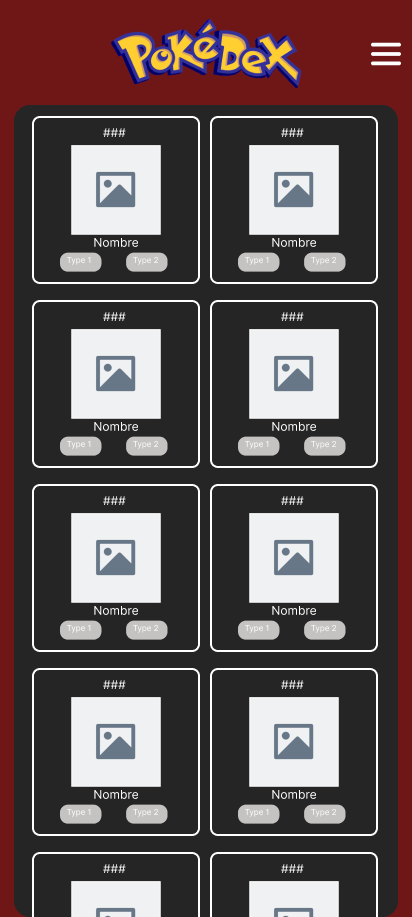
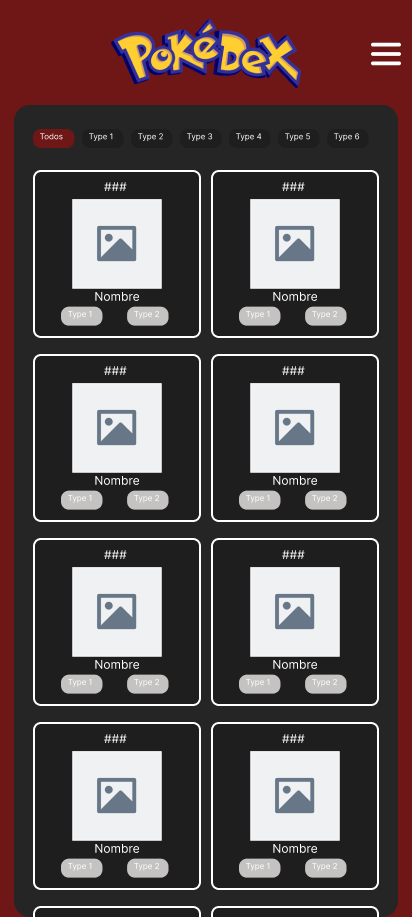
agregar filtro por tipo

diff --git a/src/screens/HomeScreen.tsx b/src/screens/HomeScreen.tsx
@@ -1,6 +1,6 @@
 import { useSafeAreaInsets } from 'react-native-safe-area-context';
 import { AppColors } from '../theme/colors';
-import { FlatList, StyleSheet, Text, View, Image } from 'react-native';
+import { FlatList, StyleSheet, Text, View, Image, TextInput, ScrollView, TouchableOpacity  } from 'react-native';
 import type { NativeStackScreenProps } from '@react-navigation/native-stack';
 import type { RootStackParamList } from '../navigation/routes';
 import { Routes } from '../navigation/routes';
@@ -10,6 +10,7 @@ import { getPokemonList } from '../api/pokemonApi';
 import PokemonCard from '../components/PokemonCard';
 import SideMenu from '../components/SideMenu';
 import PokeballLoader from '../components/PokeballLoader';
+import { pokemonTypes } from '../utils/pokemonTypes';
 
 const logo = require('../assets/logo.png');
 const pokeball = require('../assets/pokeball.png');
@@ -28,52 +29,59 @@ function HomeScreen({ theme , navigation }: HomeScreenProps) {
     const [offset, setOffset] = useState(0);
     const [loadingMore, setLoadingMore] = useState(false);
     const [hasMore, setHasMore] = useState(true);
+    const [selectedType, setSelectedType] = useState<string | null>(null);
+
     const isFetchingRef = useRef(false);
     const hasMoreRef = useRef(true);
 
     const loadPokemons = useCallback(async (nextOffset: number) => {
-    if (isFetchingRef.current || !hasMoreRef.current) {
-        return;
-    }
-
-    isFetchingRef.current = true;
-
-    try {
-        if (nextOffset === 0) {
-            setLoading(true);
-        } else {
-            setLoadingMore(true);
-        }
-
-        const newPokemons = await getPokemonList(PAGE_SIZE, nextOffset);
-
-        if (newPokemons.length === 0) {
-            hasMoreRef.current = false;
-            setHasMore(false);
+        if (isFetchingRef.current || !hasMoreRef.current) {
             return;
         }
 
-        setPokemons(previousPokemons => {
-            const existingIds = new Set(previousPokemons.map(pokemon => pokemon.id));
-            const uniqueNewPokemons = newPokemons.filter(
-                pokemon => !existingIds.has(pokemon.id),
-            );
+        isFetchingRef.current = true;
 
-            return [
-                ...previousPokemons,
-                ...uniqueNewPokemons,
-            ];
-        });
+        try {
+            if (nextOffset === 0) {
+                setLoading(true);
+            } else {
+                setLoadingMore(true);
+            }
 
-        setOffset(nextOffset + PAGE_SIZE);
-    } catch {
-        setError('No se pudieron cargar los Pokemon');
-    } finally {
-        setLoading(false);
-        setLoadingMore(false);
-        isFetchingRef.current = false;
-    }
-}, []);
+            const newPokemons = await getPokemonList(PAGE_SIZE, nextOffset);
+
+            if (newPokemons.length === 0) {
+                hasMoreRef.current = false;
+                setHasMore(false);
+                return;
+            }
+
+            setPokemons(previousPokemons => {
+                const existingIds = new Set(previousPokemons.map(pokemon => pokemon.id));
+                const uniqueNewPokemons = newPokemons.filter(
+                    pokemon => !existingIds.has(pokemon.id),
+                );
+
+                return [
+                    ...previousPokemons,
+                    ...uniqueNewPokemons,
+                ];
+            });
+
+            setOffset(nextOffset + PAGE_SIZE);
+        } catch {
+            setError('No se pudieron cargar los Pokemon');
+        } finally {
+            setLoading(false);
+            setLoadingMore(false);
+            isFetchingRef.current = false;
+        }
+    }, []);
+
+    const filteredPokemons = pokemons.filter(pokemon => {
+        const matchesType = selectedType ? pokemon.types.includes(selectedType) : true;
+        return matchesType;
+    });
 
     useEffect(() => {
         loadPokemons(0);
@@ -100,9 +108,46 @@ function HomeScreen({ theme , navigation }: HomeScreenProps) {
                     </View>
                 )}
 
+                <ScrollView
+                    horizontal
+                    showsHorizontalScrollIndicator={false}
+                    style={styles.typesContainer}
+                    >
+                    <TouchableOpacity
+                        onPress={() => setSelectedType(null)}
+                        style={[
+                        styles.typeButton,
+                        {
+                            backgroundColor: selectedType === null ? theme.pokedexPanel : theme.card,
+                        },
+                        ]}
+                    >
+                        <Text style={{ color: selectedType === null ? '#fff' : theme.text }}>
+                            Todos
+                        </Text>
+                    </TouchableOpacity>
+
+                    {pokemonTypes.map(type => (
+                        <TouchableOpacity
+                            key={type}
+                            onPress={() => setSelectedType(type)}
+                            style={[
+                                styles.typeButton,
+                                {
+                                backgroundColor: selectedType === type ? theme.pokedexPanel : theme.card,
+                                },
+                            ]}
+                            >
+                            <Text style={{ color: selectedType === type ? '#fff' : theme.text }}>
+                                {type}
+                            </Text>
+                        </TouchableOpacity>
+                    ))}
+                </ScrollView>
+
                 <FlatList
                     showsVerticalScrollIndicator={false}
-                    data={pokemons}
+                    data={filteredPokemons}
                     numColumns={2}
                     keyExtractor={pokemon => pokemon.id.toString()}
                     contentContainerStyle={{ paddingBottom: safeAreaInsets.bottom }}
@@ -134,14 +179,21 @@ function HomeScreen({ theme , navigation }: HomeScreenProps) {
                     }}
                     onEndReachedThreshold={0.5}
                     ListFooterComponent={
-                    loadingMore ? (
-                        <View style={styles.loadingMoreContainer}>
-                        <PokeballLoader source={pokeball} size={32} />
-                        <Text style={[styles.loadingText, { color: theme.text }]}>
-                            Cargando mas Pokemon...
-                        </Text>
-                        </View>
-                    ) : null
+                        loadingMore ? (
+                            <View style={styles.loadingMoreContainer}>
+                            <PokeballLoader source={pokeball} size={32} />
+                            <Text style={[styles.loadingText, { color: theme.text }]}>
+                                Cargando mas Pokemon...
+                            </Text>
+                            </View>
+                        ) : null
+                    }
+                    ListEmptyComponent={
+                        !loading ? (
+                            <Text style={[styles.emptyText, { color: theme.text }]}>
+                            No se encontraron Pokemon
+                            </Text>
+                        ) : null
                     }
                 />
             </View>
@@ -151,6 +203,32 @@ function HomeScreen({ theme , navigation }: HomeScreenProps) {
 }
 
 const styles = StyleSheet.create({
+    searchInput: {
+        height: 44,
+        borderRadius: 12,
+        paddingHorizontal: 14,
+        marginBottom: 12,
+        fontSize: 16,
+    },
+    typesContainer: {
+        marginBottom: 12,
+        maxHeight: 40,
+    },
+    typeButton: {
+        height: 32,
+        paddingHorizontal: 14,
+        borderRadius: 16,
+        marginRight: 8,
+        marginBottom: 8,
+        alignItems: 'center',
+        justifyContent: 'center',
+    },
+    emptyText: {
+        textAlign: 'center',
+        marginTop: 24,
+        fontSize: 16,
+        fontWeight: '600',
+    },
     primaryContainer: {
         height: '100%',
         width: '100%',

diff --git a/src/utils/pokemonTypes.ts b/src/utils/pokemonTypes.ts
@@ -1,0 +1,20 @@
+export const pokemonTypes: string[] = [
+  'normal',
+  'fire',
+  'water',
+  'grass',
+  'electric',
+  'ice',
+  'fighting',
+  'poison',
+  'ground',
+  'flying',
+  'psychic',
+  'bug',
+  'rock',
+  'ghost',
+  'dragon',
+  'dark',
+  'steel',
+  'fairy',
+];
